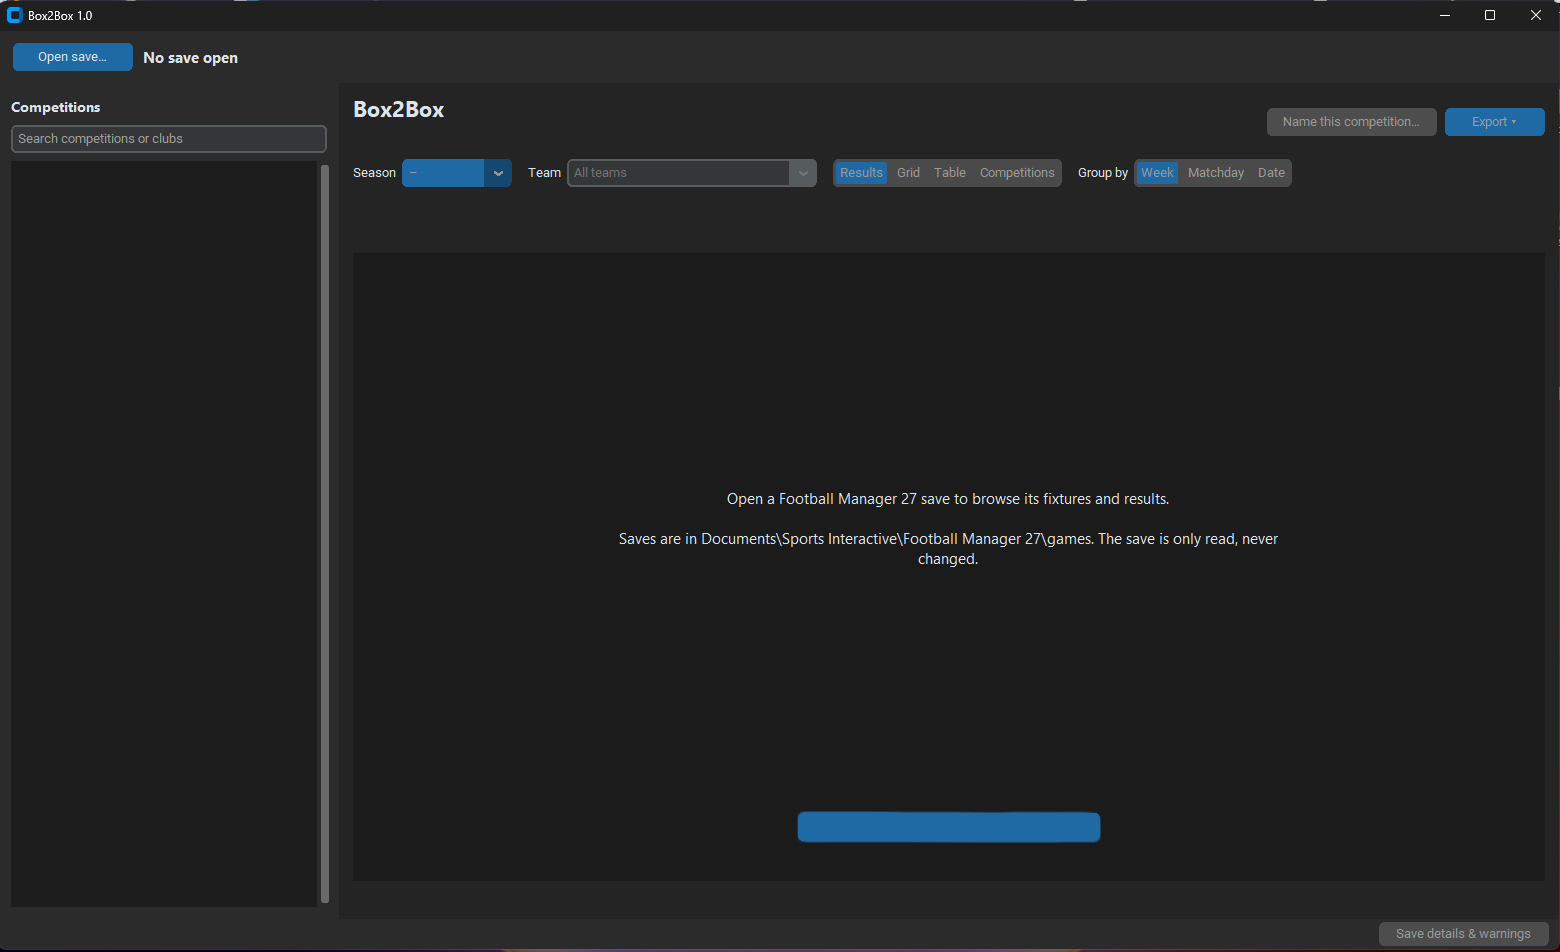
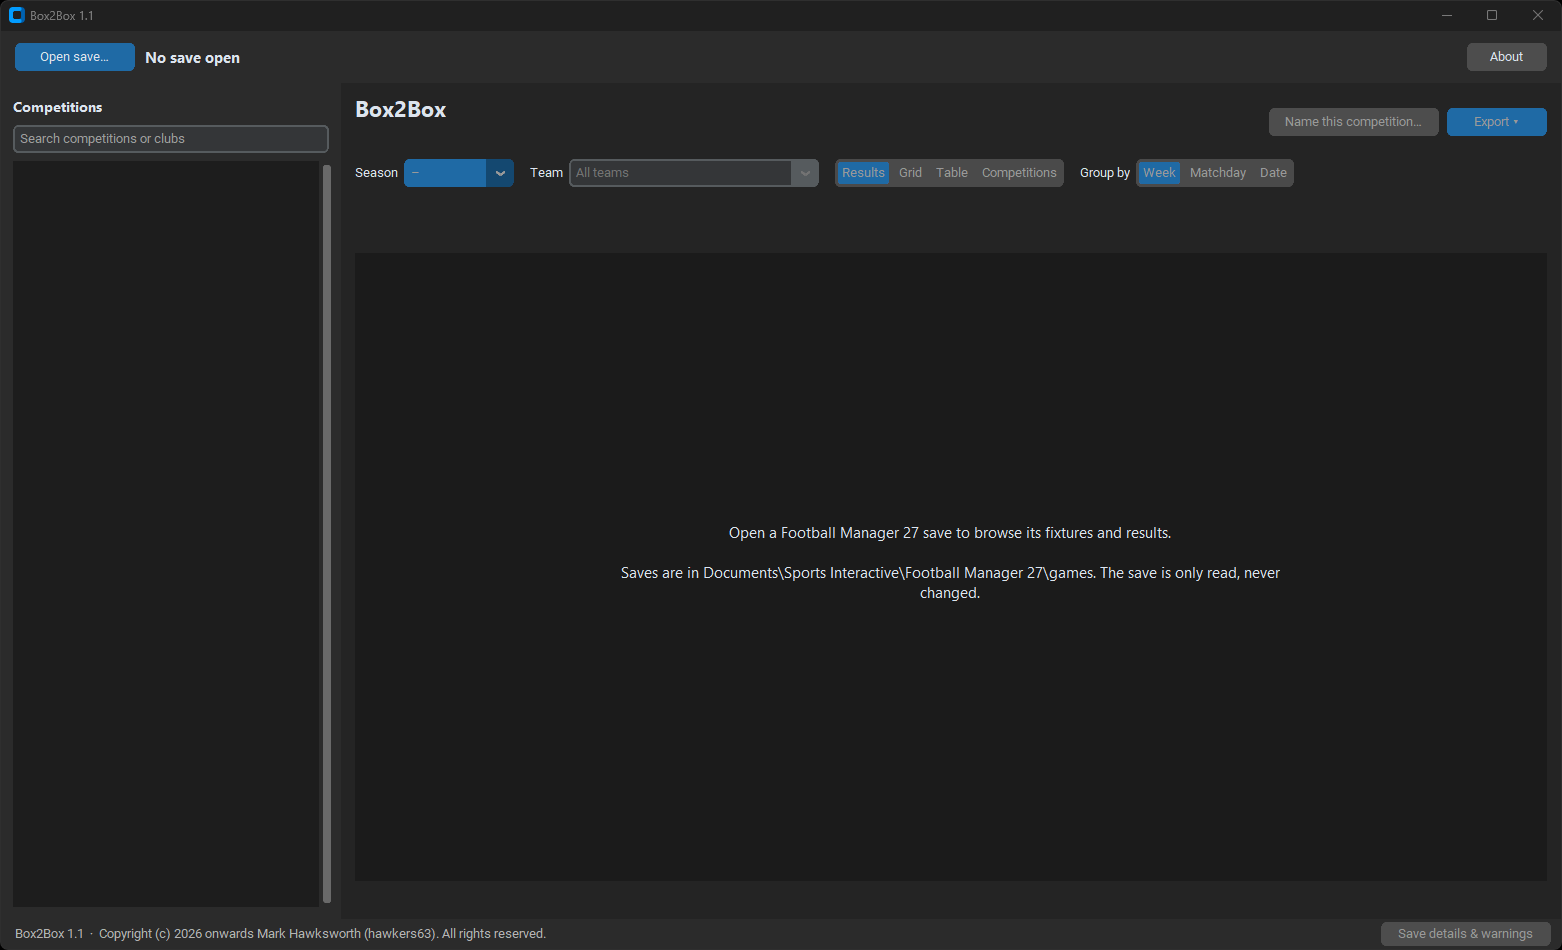
chore: release version 1.1
Bump VERSION and the launcher banner to 1.1, move the unreleased
changelog entries into a dated 1.1 section, update the release headers
in README.md and CHANGELOG.md, mention the About screen under Licence
and copyright, and refresh the main-window screenshot, taken with no
save open, so that it shows the About button.

diff --git a/fm_review.py b/fm_review.py
@@ -36,7 +36,7 @@ import fm_export as fx
 from palette import COLOURS, DRAW_BG, FOCUS, HEADING, LOSS_BG, WIN_BG, ZONE_COLOURS, zone_legend
 
 APP_TITLE = "Box2Box"
-VERSION = "1.0"
+VERSION = "1.1"
 APP_DIR = Path(__file__).resolve().parent
 NAMES_PATH = APP_DIR / "competition_names.csv"
 SETTINGS_PATH = APP_DIR / "box2box_settings.json"

diff --git a/README.md b/README.md
@@ -13,9 +13,9 @@ Saves are read with [fmsave](https://rhiever.github.io/fmsave/) and are never mo
 
 **Database viewer** · entry point `fm_review.py` · launcher `Box2Box.bat`
 
-**Release:** 1.0  
+**Release:** 1.1  
 **Status:** Current version on `main`  
-**Application on disk:** `fm_review.py` (VERSION 1.0), launched with `Box2Box.bat`
+**Application on disk:** `fm_review.py` (VERSION 1.1), launched with `Box2Box.bat`
 
 </div>
 
@@ -110,5 +110,7 @@ The tests write only to temporary directories and do not need a real Football Ma
 Copyright (c) 2026 onwards Mark Hawksworth (hawkers63). All rights reserved.
 
 Box2Box is proprietary software. Copying, distribution, modification, reverse engineering, sublicencing and commercial exploitation are prohibited without prior written consent. See [LICENSE](LICENSE) for the full terms.
+
+The app shows the same notice: **About**, at the top right of the window, gives the version, the copyright notice and the full licence.
 
 Canonical repository: <https://github.com/hawkers63/Box2Box>

diff --git a/CHANGELOG.md b/CHANGELOG.md
@@ -1,8 +1,8 @@
 # Changelog
 
-**Release:** 1.0  
+**Release:** 1.1  
 **Status:** Current version on `main`  
-**Application on disk:** `fm_review.py` (VERSION 1.0), launched with `Box2Box.bat`
+**Application on disk:** `fm_review.py` (VERSION 1.1), launched with `Box2Box.bat`
 
 All notable changes to this project will be documented in this file.
 
@@ -11,8 +11,14 @@ and this project adheres to [Semantic Versioning](https://semver.org/spec/v2.0.0
 
 ## [Unreleased]
 
+## [1.1] - 2026-11-15
+
+Adds an About screen that states who owns Box2Box and on what terms it may be used.
+
 ### Added
 
+- An **About** button at the top right of the window. It opens the About screen: the version, the copyright notice, a short summary of the proprietary licence, and the full terms from `LICENSE`.
+- The status bar shows the version and the copyright notice until a save is opened.
 - Screenshot of the main window (no save open) in the README.
 
 ### Changed
